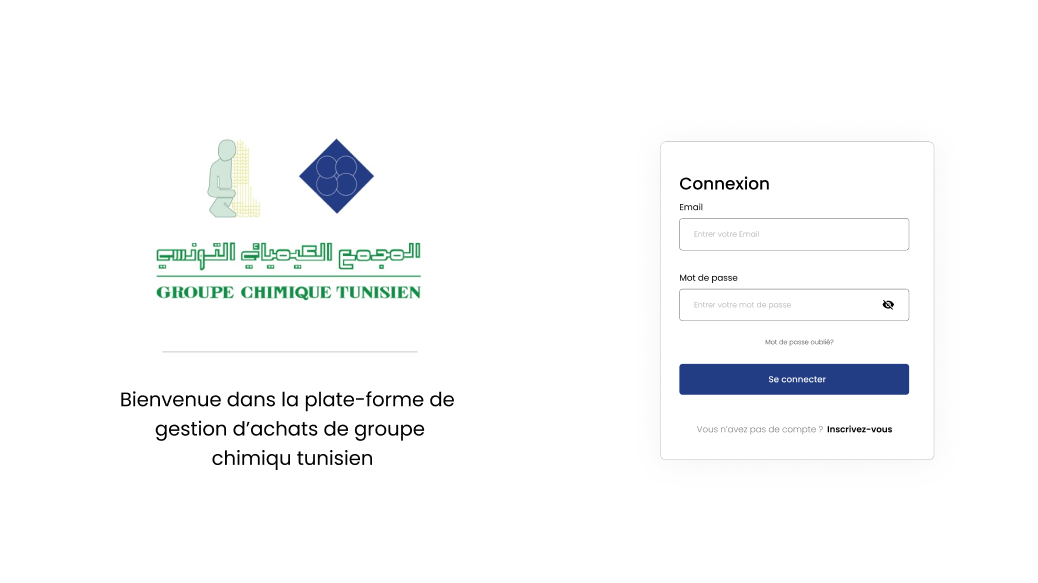
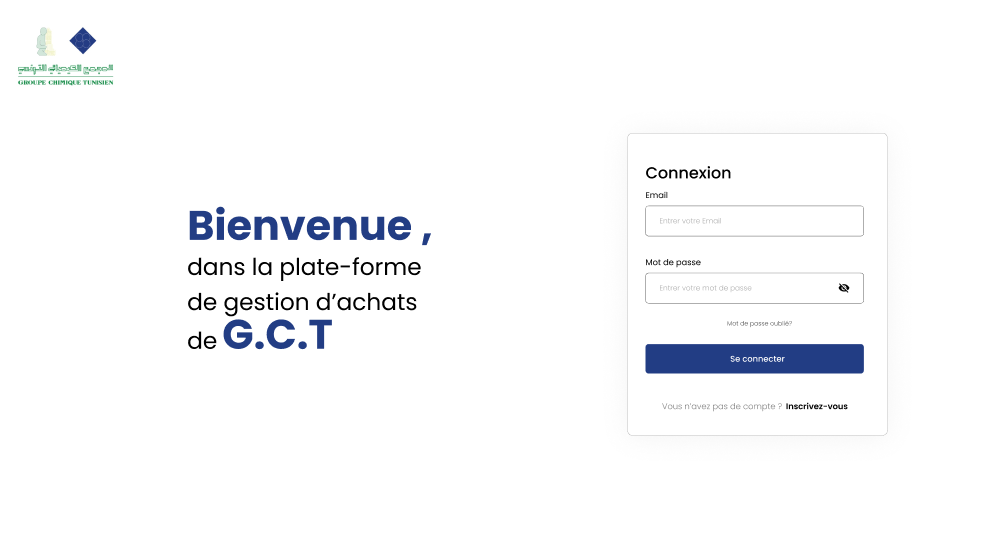
Mise à jour de l'image de la page de connexion

diff --git a/interface graphique/README.md b/interface graphique/README.md
@@ -1,5 +1,5 @@
 # Vous pouvez consulter le projet sur figma par le lien suivant:
 
-https://www.figma.com/design/pe3oADFJqZiSIiIHcNf32O/Dashboard?node-id=0-1&t=5nwSy2t3kYe2frcH-1
+https://www.figma.com/design/pe3oADFJqZiSIiIHcNf32O/Dashboard?node-id=24-81&t=UZw9NyDy3wH8gvKG-1
 
 
